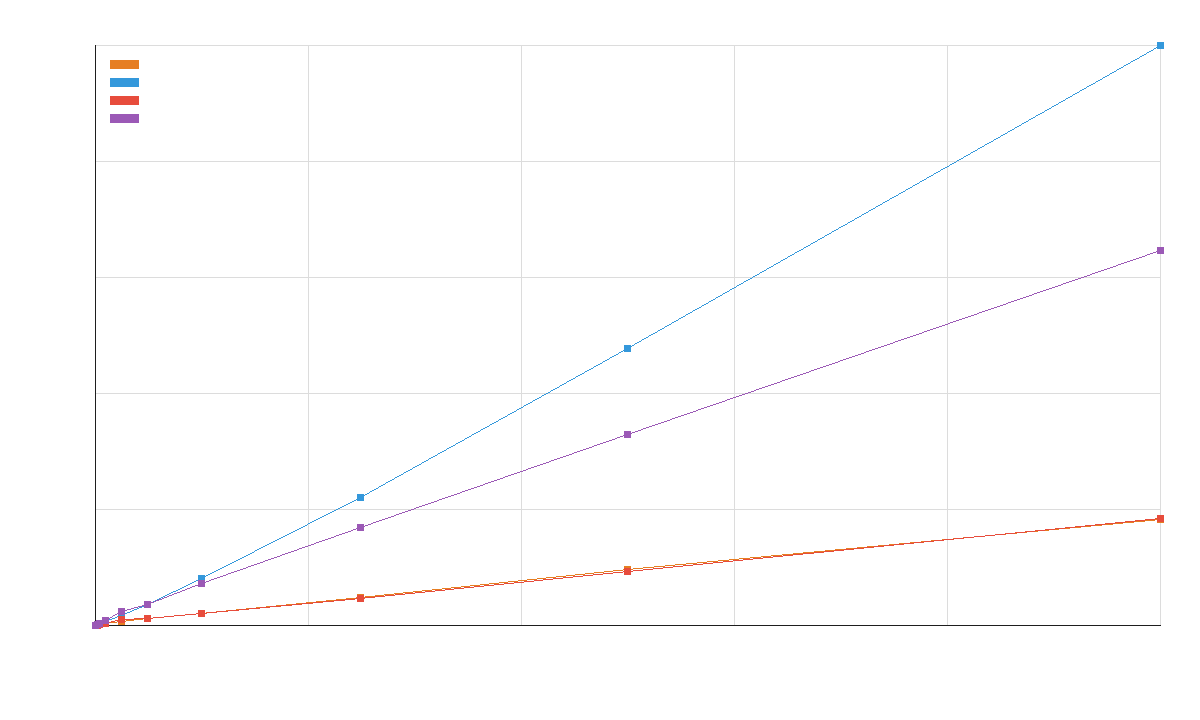
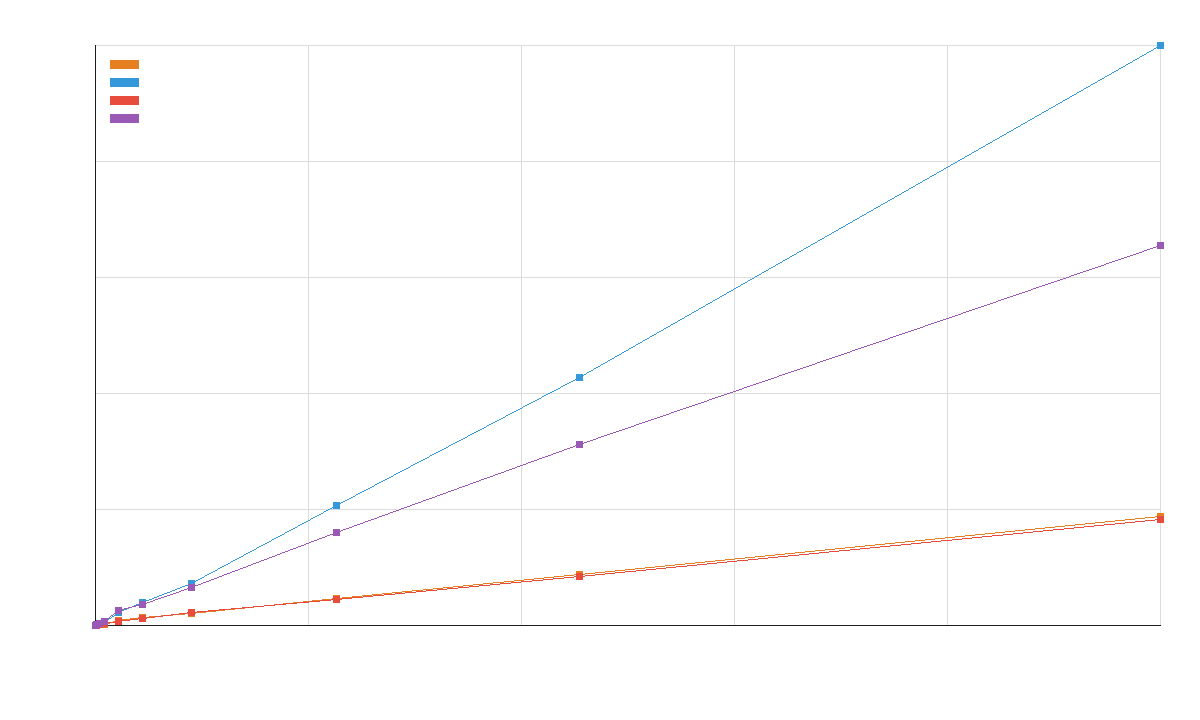
110.000 use

diff --git a/docs/html/dir_cb32b1f319a2e75f85330d5e0939b50f.html b/docs/html/dir_cb32b1f319a2e75f85330d5e0939b50f.html
@@ -165,7 +165,7 @@ document.addEventListener('DOMContentLoaded',() => { initNavTree('dir_cb32b1f319
 <p><img src="../output/benchmark.png" alt="График времени сортировок" class="inline"/></p>
 <h1 class="doxsection"><a class="anchor" id="autotoc_md8"></a>
 Выводы</h1>
-<p>Сортировка пузырьком и шейкер-сортировка имеют квадратичную сложность в общем случае, но в этой работе для набора до 100000 элементов используются почти отсортированные данные. На таких данных обе простые сортировки завершаются быстро благодаря раннему выходу после прохода без обменов.</p>
+<p>Сортировка пузырьком и шейкер-сортировка имеют квадратичную сложность в общем случае, но в этой работе для набора до 110000 элементов используются почти отсортированные данные. На таких данных обе простые сортировки завершаются быстро благодаря раннему выходу после прохода без обменов.</p>
 <p>По полученному графику для почти отсортированных массивов лучше всего подходят пузырек и шейкер-сортировка. Для произвольных и случайно перемешанных данных надежнее применять сортировку слиянием или <span class="tt">std::sort</span>, так как они работают за <span class="tt">O(n log n)</span>. Сортировка слиянием стабильна, но требует дополнительную память <span class="tt">O(n)</span>.</p>
 <h1 class="doxsection"><a class="anchor" id="autotoc_md9"></a>
 Документация</h1>

diff --git a/src/main.cpp b/src/main.cpp
@@ -22,7 +22,7 @@ using Clock = std::chrono::steady_clock;
 
 const std::vector<std::size_t>& benchmarkSizes() {
     static const std::vector<std::size_t> sizes{
-        100, 250, 500, 1000, 2500, 5000, 10000, 25000, 50000, 100000,
+        100, 250, 500, 1000, 2500, 5000, 10000, 25000, 50000, 110000,
     };
     return sizes;
 }

diff --git a/report/README.md b/report/README.md
@@ -52,7 +52,7 @@ python3 scripts/plot_benchmark.py
 
 ## Выводы
 
-Сортировка пузырьком и шейкер-сортировка имеют квадратичную сложность в общем случае, но в этой работе для набора до 100000 элементов используются почти отсортированные данные. На таких данных обе простые сортировки завершаются быстро благодаря раннему выходу после прохода без обменов.
+Сортировка пузырьком и шейкер-сортировка имеют квадратичную сложность в общем случае, но в этой работе для набора до 110000 элементов используются почти отсортированные данные. На таких данных обе простые сортировки завершаются быстро благодаря раннему выходу после прохода без обменов.
 
 По полученному графику для почти отсортированных массивов лучше всего подходят пузырек и шейкер-сортировка. Для произвольных и случайно перемешанных данных надежнее применять сортировку слиянием или `std::sort`, так как они работают за `O(n log n)`. Сортировка слиянием стабильна, но требует дополнительную память `O(n)`.
 
